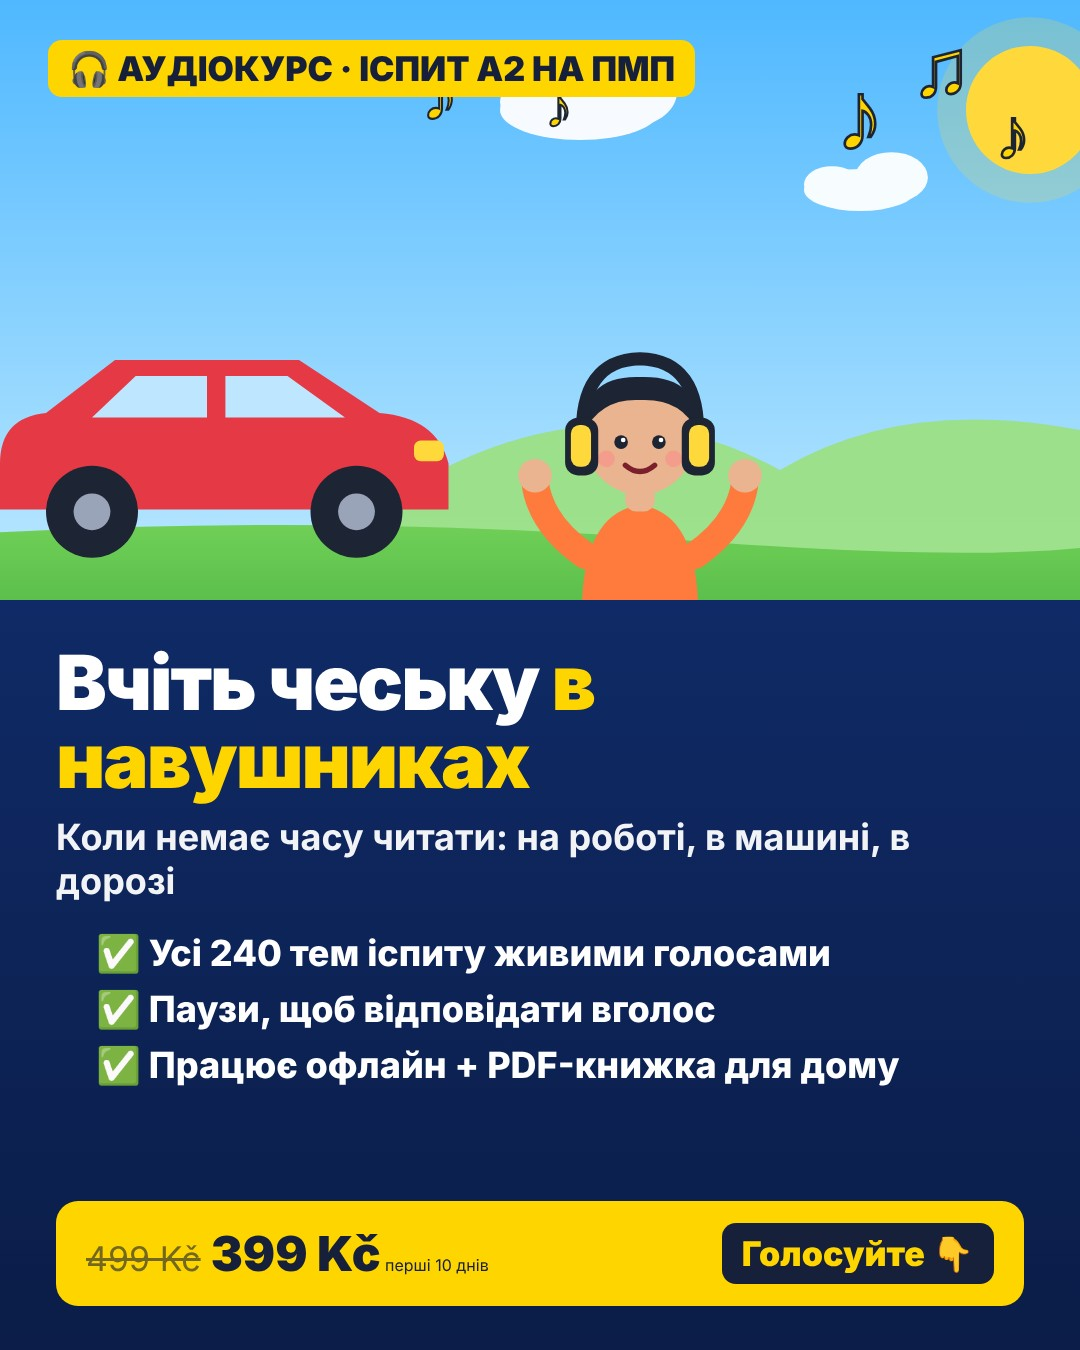
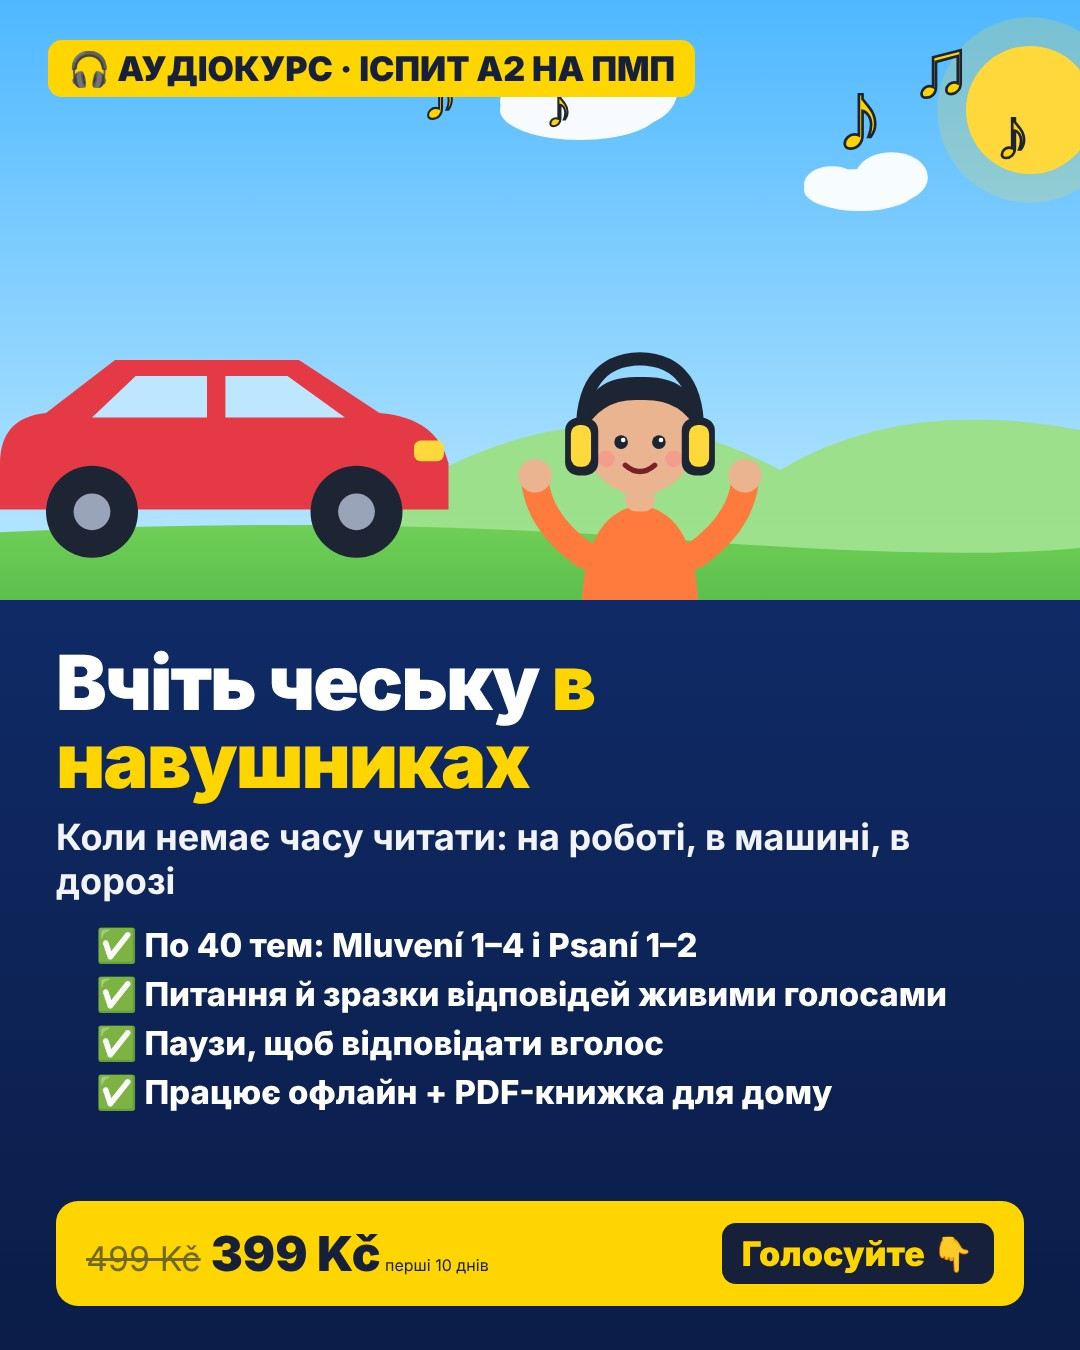
Fix wording: 40 topics per task (not 240); promo image

Changed region(s): [[0.0917, 0.6844, 0.8861, 0.84]]

diff --git a/temata/index.html b/temata/index.html
@@ -2,11 +2,11 @@
 <html lang="cs">
 <head>
 <meta charset="utf-8"><meta name="viewport" content="width=device-width, initial-scale=1">
-<title>Témata zkoušky A2 pro trvalý pobyt: Psaní a Mluvení se vzory (240 témat)</title>
-<meta name="description" content="Všech 240 témat Psaní a Mluvení zkoušky A2 pro trvalý pobyt se vzorovými odpověďmi. 240 тем іспиту A2 на ПМП зі зразками.">
+<title>Témata zkoušky A2 pro trvalý pobyt: Psaní a Mluvení se vzory (40 témat ke každé úloze)</title>
+<meta name="description" content="Psaní 1–2 a Mluvení 1–4 zkoušky A2 pro trvalý pobyt: ke každé úloze 40 témat se vzorovými odpověďmi. По 40 тем до кожної частини іспиту A2 на ПМП.">
 <link rel="canonical" href="https://zkouska-a2.cz/temata/">
 <link rel="icon" type="image/png" sizes="32x32" href="/img/app/favicon-32.png">
-<meta property="og:title" content="Témata zkoušky A2 pro trvalý pobyt: Psaní a Mluvení se vzory (240 témat)"><meta property="og:description" content="Všech 240 témat Psaní a Mluvení zkoušky A2 pro trvalý pobyt se vzorovými odpověďmi. 240 тем іспиту A2 на ПМП зі зразками."><meta property="og:url" content="https://zkouska-a2.cz/temata/"><meta property="og:type" content="article"><meta property="og:image" content="https://zkouska-a2.cz/img/og/og-card.jpg">
+<meta property="og:title" content="Témata zkoušky A2 pro trvalý pobyt: Psaní a Mluvení se vzory (40 témat ke každé úloze)"><meta property="og:description" content="Psaní 1–2 a Mluvení 1–4 zkoušky A2 pro trvalý pobyt: ke každé úloze 40 témat se vzorovými odpověďmi. По 40 тем до кожної частини іспиту A2 на ПМП."><meta property="og:url" content="https://zkouska-a2.cz/temata/"><meta property="og:type" content="article"><meta property="og:image" content="https://zkouska-a2.cz/img/og/og-card.jpg">
 <style>:root{--bg:#eef1f6;--sheet:#fff;--ink:#15213a;--muted:#59647a;--rule:#d5dbe6;--accent:#1f4e9c;--y:#ffd400;color-scheme:light}
 @media (prefers-color-scheme: dark){:root{--bg:#0d121c;--sheet:#151c2a;--ink:#e5e9f1;--muted:#9aa4b8;--rule:#29334a;--accent:#7ea4ff;color-scheme:dark}}
 *{box-sizing:border-box}body{margin:0;background:var(--bg);color:var(--ink);font:17px/1.6 "Segoe UI",Roboto,Arial,sans-serif;padding:16px 16px 48px}
@@ -24,5 +24,5 @@ a{color:var(--accent)}.lead,.bc,small{color:var(--muted)}.bc{font-size:.92rem}
 <script type="application/ld+json">[{"@context":"https://schema.org","@type":"CollectionPage","name":"Témata zkoušky A2","url":"https://zkouska-a2.cz/temata/"}]</script>
 </head>
 <body><main>
-<p class="bc"><a href="/">Zkouška A2 nanečisto</a> › Témata</p><h1>Zkouška A2 (trvalý pobyt): všechna témata Psaní a Mluvení se vzory</h1><p class="lead">240 témat nového formátu zkoušky (od 11. 4. 2026) – zadání a vzorové odpovědi na plný počet bodů.<br>Усі 240 тем письмової та усної частини іспиту A2 на ПМП зі зразками відповідей.</p><ul><li><a href="psani-1-formular/"><b>Psaní 1 – Formulář</b></a> · Письмо 1 – формуляр · 40 témat</li><li><a href="psani-2-email/"><b>Psaní 2 – E-mail</b></a> · Письмо 2 – e-mail · 40 témat</li><li><a href="mluveni-1-otazky/"><b>Mluvení 1 – Otázky k tématu</b></a> · Мовлення 1 – питання до теми · 40 témat</li><li><a href="mluveni-2-karta/"><b>Mluvení 2 – Karta: ptejte se</b></a> · Мовлення 2 – картка: поставте питання · 40 témat</li><li><a href="mluveni-3-pribeh/"><b>Mluvení 3 – Příběh podle obrázků</b></a> · Мовлення 3 – розповідь за картинками · 40 témat</li><li><a href="mluveni-4-situace/"><b>Mluvení 4 – Řešení situace</b></a> · Мовлення 4 – розв&#x27;язання ситуації · 40 témat</li></ul><div class="cta"><a class="btn y" href="/?utm_source=temata&amp;utm_content=u1-1">▶ Cvičná zkouška A2 zdarma / Безкоштовний пробний іспит</a><a class="btn" href="/learn/?utm_source=temata#u1-0">🎧 Procvičit s audiem</a><a class="btn r" href="https://www.youtube.com/channel/UCpkz24CVlceUnyC8PIF9KMA?sub_confirmation=1" rel="noopener">🔔 YouTube</a><a class="btn tg" href="https://t.me/zkouska_A2_cz" rel="noopener">✈ Telegram</a></div>
+<p class="bc"><a href="/">Zkouška A2 nanečisto</a> › Témata</p><h1>Zkouška A2 (trvalý pobyt): všechna témata Psaní a Mluvení se vzory</h1><p class="lead">Ke každé ze 6 úloh nového formátu zkoušky (od 11. 4. 2026) 40 témat – zadání a vzorové odpovědi na plný počet bodů.<br>По 40 тем до кожної з 6 частин іспиту A2 на ПМП (Mluvení 1–4, Psaní 1–2) зі зразками відповідей.</p><ul><li><a href="psani-1-formular/"><b>Psaní 1 – Formulář</b></a> · Письмо 1 – формуляр · 40 témat</li><li><a href="psani-2-email/"><b>Psaní 2 – E-mail</b></a> · Письмо 2 – e-mail · 40 témat</li><li><a href="mluveni-1-otazky/"><b>Mluvení 1 – Otázky k tématu</b></a> · Мовлення 1 – питання до теми · 40 témat</li><li><a href="mluveni-2-karta/"><b>Mluvení 2 – Karta: ptejte se</b></a> · Мовлення 2 – картка: поставте питання · 40 témat</li><li><a href="mluveni-3-pribeh/"><b>Mluvení 3 – Příběh podle obrázků</b></a> · Мовлення 3 – розповідь за картинками · 40 témat</li><li><a href="mluveni-4-situace/"><b>Mluvení 4 – Řešení situace</b></a> · Мовлення 4 – розв&#x27;язання ситуації · 40 témat</li></ul><div class="cta"><a class="btn y" href="/?utm_source=temata&amp;utm_content=u1-1">▶ Cvičná zkouška A2 zdarma / Безкоштовний пробний іспит</a><a class="btn" href="/learn/?utm_source=temata#u1-0">🎧 Procvičit s audiem</a><a class="btn r" href="https://www.youtube.com/channel/UCpkz24CVlceUnyC8PIF9KMA?sub_confirmation=1" rel="noopener">🔔 YouTube</a><a class="btn tg" href="https://t.me/zkouska_A2_cz" rel="noopener">✈ Telegram</a></div>
 </main></body></html>

diff --git a/ru/index.html b/ru/index.html
@@ -853,7 +853,7 @@ a.tile{text-decoration:none;color:inherit}
             <button type="button" class="tile" data-go="learn"><span class="t-ico" aria-hidden="true">🗣</span><span class="t-tx"><b>Уроки Mluvení</b><span>400 вопросов с ответами, 40 историй, 40 ситуаций</span></span><span class="t-go" aria-hidden="true">→</span></button>
             <button type="button" class="tile" data-go="learnw"><span class="t-ico" aria-hidden="true">📝</span><span class="t-tx"><b>Уроки Psaní</b><span>Шаблоны, 80 заданий с образцами, счётчик слов</span></span><span class="t-go" aria-hidden="true">→</span></button>
             <button type="button" class="tile" data-go="tips"><span class="t-ico" aria-hidden="true">💡</span><span class="t-tx"><b>Советы к экзамену</b><span>Что делать до, во время и после экзамена</span></span><span class="t-go" aria-hidden="true">→</span></button>
-            <a class="tile" href="/temata/"><span class="t-ico" aria-hidden="true">📚</span><span class="t-tx"><b>Все 240 тем с образцами</b><span>Psaní и Mluvení: каждая тема на отдельной странице</span></span><span class="t-go" aria-hidden="true">→</span></a>
+            <a class="tile" href="/temata/"><span class="t-ico" aria-hidden="true">📚</span><span class="t-tx"><b>По 40 тем к каждой части</b><span>Mluvení 1–4 и Psaní 1–2: каждая тема на отдельной странице с образцом</span></span><span class="t-go" aria-hidden="true">→</span></a>
             <a class="tile" href="/ru/faq/"><span class="t-ico" aria-hidden="true">❓</span><span class="t-tx"><b>Всё об экзамене</b><span>Цена, запись, баллы, документы, результаты (на украинском)</span></span><span class="t-go" aria-hidden="true">→</span></a>
           </div>
         </article>

diff --git a/index.html b/index.html
@@ -853,7 +853,7 @@ a.tile{text-decoration:none;color:inherit}
             <button type="button" class="tile" data-go="learn"><span class="t-ico" aria-hidden="true">🗣</span><span class="t-tx"><b>Уроки Mluvení</b><span>400 питань з відповідями, 40 історій, 40 ситуацій</span></span><span class="t-go" aria-hidden="true">→</span></button>
             <button type="button" class="tile" data-go="learnw"><span class="t-ico" aria-hidden="true">📝</span><span class="t-tx"><b>Уроки Psaní</b><span>Шаблони, 80 завдань зі зразками, лічильник слів</span></span><span class="t-go" aria-hidden="true">→</span></button>
             <button type="button" class="tile" data-go="tips"><span class="t-ico" aria-hidden="true">💡</span><span class="t-tx"><b>Поради до іспиту</b><span>Що робити до, під час і після іспиту</span></span><span class="t-go" aria-hidden="true">→</span></button>
-            <a class="tile" href="/temata/"><span class="t-ico" aria-hidden="true">📚</span><span class="t-tx"><b>Усі 240 тем зі зразками</b><span>Psaní й Mluvení: кожна тема окремою сторінкою</span></span><span class="t-go" aria-hidden="true">→</span></a>
+            <a class="tile" href="/temata/"><span class="t-ico" aria-hidden="true">📚</span><span class="t-tx"><b>По 40 тем до кожної частини</b><span>Mluvení 1–4 і Psaní 1–2: кожна тема окремою сторінкою зі зразком</span></span><span class="t-go" aria-hidden="true">→</span></a>
             <a class="tile" href="/faq/"><span class="t-ico" aria-hidden="true">❓</span><span class="t-tx"><b>Усе про іспит</b><span>Ціна, запис, бали, документи, результати</span></span><span class="t-go" aria-hidden="true">→</span></a>
           </div>
         </article>

diff --git a/vi/index.html b/vi/index.html
@@ -853,7 +853,7 @@ a.tile{text-decoration:none;color:inherit}
             <button type="button" class="tile" data-go="learn"><span class="t-ico" aria-hidden="true">🗣</span><span class="t-tx"><b>Bài học Mluvení</b><span>400 câu hỏi có đáp án, 40 câu chuyện, 40 tình huống</span></span><span class="t-go" aria-hidden="true">→</span></button>
             <button type="button" class="tile" data-go="learnw"><span class="t-ico" aria-hidden="true">📝</span><span class="t-tx"><b>Bài học Psaní</b><span>Mẫu câu, 80 bài có bài mẫu, đếm số từ</span></span><span class="t-go" aria-hidden="true">→</span></button>
             <button type="button" class="tile" data-go="tips"><span class="t-ico" aria-hidden="true">💡</span><span class="t-tx"><b>Mẹo đi thi</b><span>Nên làm gì trước, trong và sau kỳ thi</span></span><span class="t-go" aria-hidden="true">→</span></button>
-            <a class="tile" href="/temata/"><span class="t-ico" aria-hidden="true">📚</span><span class="t-tx"><b>Tất cả 240 chủ đề có bài mẫu</b><span>Psaní và Mluvení: mỗi chủ đề một trang riêng</span></span><span class="t-go" aria-hidden="true">→</span></a>
+            <a class="tile" href="/temata/"><span class="t-ico" aria-hidden="true">📚</span><span class="t-tx"><b>40 chủ đề cho mỗi phần</b><span>Mluvení 1–4 và Psaní 1–2: mỗi chủ đề một trang riêng có bài mẫu</span></span><span class="t-go" aria-hidden="true">→</span></a>
             <a class="tile" href="/vi/faq/"><span class="t-ico" aria-hidden="true">❓</span><span class="t-tx"><b>Tất cả về kỳ thi</b><span>Lệ phí, đăng ký, điểm, giấy tờ, kết quả (tiếng Ukraina)</span></span><span class="t-go" aria-hidden="true">→</span></a>
           </div>
         </article>

diff --git a/en/index.html b/en/index.html
@@ -853,7 +853,7 @@ a.tile{text-decoration:none;color:inherit}
             <button type="button" class="tile" data-go="learn"><span class="t-ico" aria-hidden="true">🗣</span><span class="t-tx"><b>Mluvení lessons</b><span>400 questions with answers, 40 stories, 40 situations</span></span><span class="t-go" aria-hidden="true">→</span></button>
             <button type="button" class="tile" data-go="learnw"><span class="t-ico" aria-hidden="true">📝</span><span class="t-tx"><b>Psaní lessons</b><span>Templates, 80 tasks with samples, word counter</span></span><span class="t-go" aria-hidden="true">→</span></button>
             <button type="button" class="tile" data-go="tips"><span class="t-ico" aria-hidden="true">💡</span><span class="t-tx"><b>Exam tips</b><span>What to do before, during and after the exam</span></span><span class="t-go" aria-hidden="true">→</span></button>
-            <a class="tile" href="/temata/"><span class="t-ico" aria-hidden="true">📚</span><span class="t-tx"><b>All 240 topics with model answers</b><span>Psaní and Mluvení: every topic on its own page</span></span><span class="t-go" aria-hidden="true">→</span></a>
+            <a class="tile" href="/temata/"><span class="t-ico" aria-hidden="true">📚</span><span class="t-tx"><b>40 topics for each task</b><span>Mluvení 1–4 and Psaní 1–2: every topic on its own page with a model answer</span></span><span class="t-go" aria-hidden="true">→</span></a>
             <a class="tile" href="/en/faq/"><span class="t-ico" aria-hidden="true">❓</span><span class="t-tx"><b>All about the exam</b><span>Fee, registration, scores, documents, results (in Ukrainian)</span></span><span class="t-go" aria-hidden="true">→</span></a>
           </div>
         </article>

diff --git a/learn/index.html b/learn/index.html
@@ -497,6 +497,6 @@ route();
 })();
 </script>
 <script>if('serviceWorker' in navigator) window.addEventListener('load', function(){ navigator.serviceWorker.register('/sw.js', {scope:'/'}).catch(function(){}); });</script>
-<nav style="max-width:900px;margin:24px auto;padding:0 16px;font:15px/1.6 system-ui,sans-serif" aria-label="Témata"><b>📚 Témata se vzory:</b> <a href="/temata/psani-1-formular/">Psaní 1</a> · <a href="/temata/psani-2-email/">Psaní 2</a> · <a href="/temata/mluveni-1-otazky/">Mluvení 1</a> · <a href="/temata/mluveni-2-karta/">Mluvení 2</a> · <a href="/temata/mluveni-3-pribeh/">Mluvení 3</a> · <a href="/temata/mluveni-4-situace/">Mluvení 4</a> · <a href="/temata/">všech 240 témat</a></nav>
+<nav style="max-width:900px;margin:24px auto;padding:0 16px;font:15px/1.6 system-ui,sans-serif" aria-label="Témata"><b>📚 Témata se vzory:</b> <a href="/temata/psani-1-formular/">Psaní 1</a> · <a href="/temata/psani-2-email/">Psaní 2</a> · <a href="/temata/mluveni-1-otazky/">Mluvení 1</a> · <a href="/temata/mluveni-2-karta/">Mluvení 2</a> · <a href="/temata/mluveni-3-pribeh/">Mluvení 3</a> · <a href="/temata/mluveni-4-situace/">Mluvení 4</a> · <a href="/temata/">všechna témata</a></nav>
 </body>
 </html>

diff --git a/tools/topics/build_topics.py b/tools/topics/build_topics.py
@@ -146,10 +146,10 @@ def build():
             [{'@context': 'https://schema.org', '@type': 'CollectionPage', 'name': cz, 'url': hurl}]))
         urls.append(hurl); hub_links.append((sslug, cz, uk))
     inner = '<p class="bc"><a href="/">Zkouška A2 nanečisto</a> › Témata</p><h1>Zkouška A2 (trvalý pobyt): všechna témata Psaní a Mluvení se vzory</h1>'
-    inner += '<p class="lead">240 témat nového formátu zkoušky (od 11. 4. 2026) – zadání a vzorové odpovědi na plný počet bodů.<br>Усі 240 тем письмової та усної частини іспиту A2 на ПМП зі зразками відповідей.</p><ul>'
+    inner += '<p class="lead">Ke každé ze 6 úloh nového formátu zkoušky (od 11. 4. 2026) 40 témat – zadání a vzorové odpovědi na plný počet bodů.<br>По 40 тем до кожної з 6 частин іспиту A2 на ПМП (Mluvení 1–4, Psaní 1–2) зі зразками відповідей.</p><ul>'
     inner += ''.join(f'<li><a href="{s}/"><b>{E(c)}</b></a> · {E(u)} · 40 témat</li>' for s, c, u in hub_links) + '</ul>' + cta('u1', 1)
-    open(os.path.join(out, 'index.html'), 'w', encoding='utf-8').write(page('Témata zkoušky A2 pro trvalý pobyt: Psaní a Mluvení se vzory (240 témat)',
-        'Všech 240 témat Psaní a Mluvení zkoušky A2 pro trvalý pobyt se vzorovými odpověďmi. 240 тем іспиту A2 на ПМП зі зразками.', BASE + 'temata/', '', inner,
+    open(os.path.join(out, 'index.html'), 'w', encoding='utf-8').write(page('Témata zkoušky A2 pro trvalý pobyt: Psaní a Mluvení se vzory (40 témat ke každé úloze)',
+        'Psaní 1–2 a Mluvení 1–4 zkoušky A2 pro trvalý pobyt: ke každé úloze 40 témat se vzorovými odpověďmi. По 40 тем до кожної частини іспиту A2 на ПМП.', BASE + 'temata/', '', inner,
         [{'@context': 'https://schema.org', '@type': 'CollectionPage', 'name': 'Témata zkoušky A2', 'url': BASE + 'temata/'}]))
     urls.insert(0, BASE + 'temata/')
     json.dump(urls, open(os.path.join(HERE, 'urls.json'), 'w'), indent=0)

diff --git a/tools/learn/build_learn.py b/tools/learn/build_learn.py
@@ -84,7 +84,7 @@ def build():
     os.makedirs(os.path.join(ROOT, 'learn'), exist_ok=True)
     ld, nld = video_ld()
     # 23.11 (Search Console): посилання на окремі сторінки тем /temata/
-    nav = '<nav style="max-width:900px;margin:24px auto;padding:0 16px;font:15px/1.6 system-ui,sans-serif" aria-label="Témata"><b>📚 Témata se vzory:</b> ' + ' · '.join(f'<a href="/temata/{s}/">{n}</a>' for s, n in [('psani-1-formular', 'Psaní 1'), ('psani-2-email', 'Psaní 2'), ('mluveni-1-otazky', 'Mluvení 1'), ('mluveni-2-karta', 'Mluvení 2'), ('mluveni-3-pribeh', 'Mluvení 3'), ('mluveni-4-situace', 'Mluvení 4')]) + ' · <a href="/temata/">všech 240 témat</a></nav>'
+    nav = '<nav style="max-width:900px;margin:24px auto;padding:0 16px;font:15px/1.6 system-ui,sans-serif" aria-label="Témata"><b>📚 Témata se vzory:</b> ' + ' · '.join(f'<a href="/temata/{s}/">{n}</a>' for s, n in [('psani-1-formular', 'Psaní 1'), ('psani-2-email', 'Psaní 2'), ('mluveni-1-otazky', 'Mluvení 1'), ('mluveni-2-karta', 'Mluvení 2'), ('mluveni-3-pribeh', 'Mluvení 3'), ('mluveni-4-situace', 'Mluvení 4')]) + ' · <a href="/temata/">všechna témata</a></nav>'
     open(os.path.join(ROOT, 'learn', 'index.html'), 'w', encoding='utf-8').write(tpl.replace('@@DATA@@', blob).replace('</head>', ld + '\n</head>', 1).replace('</body>', nav + '\n</body>', 1))
     print('VideoObject:', nld)
     print('OK learn/index.html', len(blob) // 1024, 'KB data;', {k: len(data[k]) for k in ('u1', 'u2', 'u3', 'u4', 'w1', 'w2')})

diff --git a/tools/i18n_tr.py b/tools/i18n_tr.py
@@ -800,3 +800,7 @@ T += [
 ("Psaní й Mluvení: кожна тема окремою сторінкою", "Psaní and Mluvení: every topic on its own page", "Psaní и Mluvení: каждая тема на отдельной странице", "Psaní và Mluvení: mỗi chủ đề một trang riêng"),
 ("📚 Témata A2 se vzory", "📚 A2 topics with model answers", "📚 Темы A2 с образцами", "📚 Chủ đề A2 có bài mẫu"),
 ]
+T += [
+("По 40 тем до кожної частини", "40 topics for each task", "По 40 тем к каждой части", "40 chủ đề cho mỗi phần"),
+("Mluvení 1–4 і Psaní 1–2: кожна тема окремою сторінкою зі зразком", "Mluvení 1–4 and Psaní 1–2: every topic on its own page with a model answer", "Mluvení 1–4 и Psaní 1–2: каждая тема на отдельной странице с образцом", "Mluvení 1–4 và Psaní 1–2: mỗi chủ đề một trang riêng có bài mẫu"),
+]
